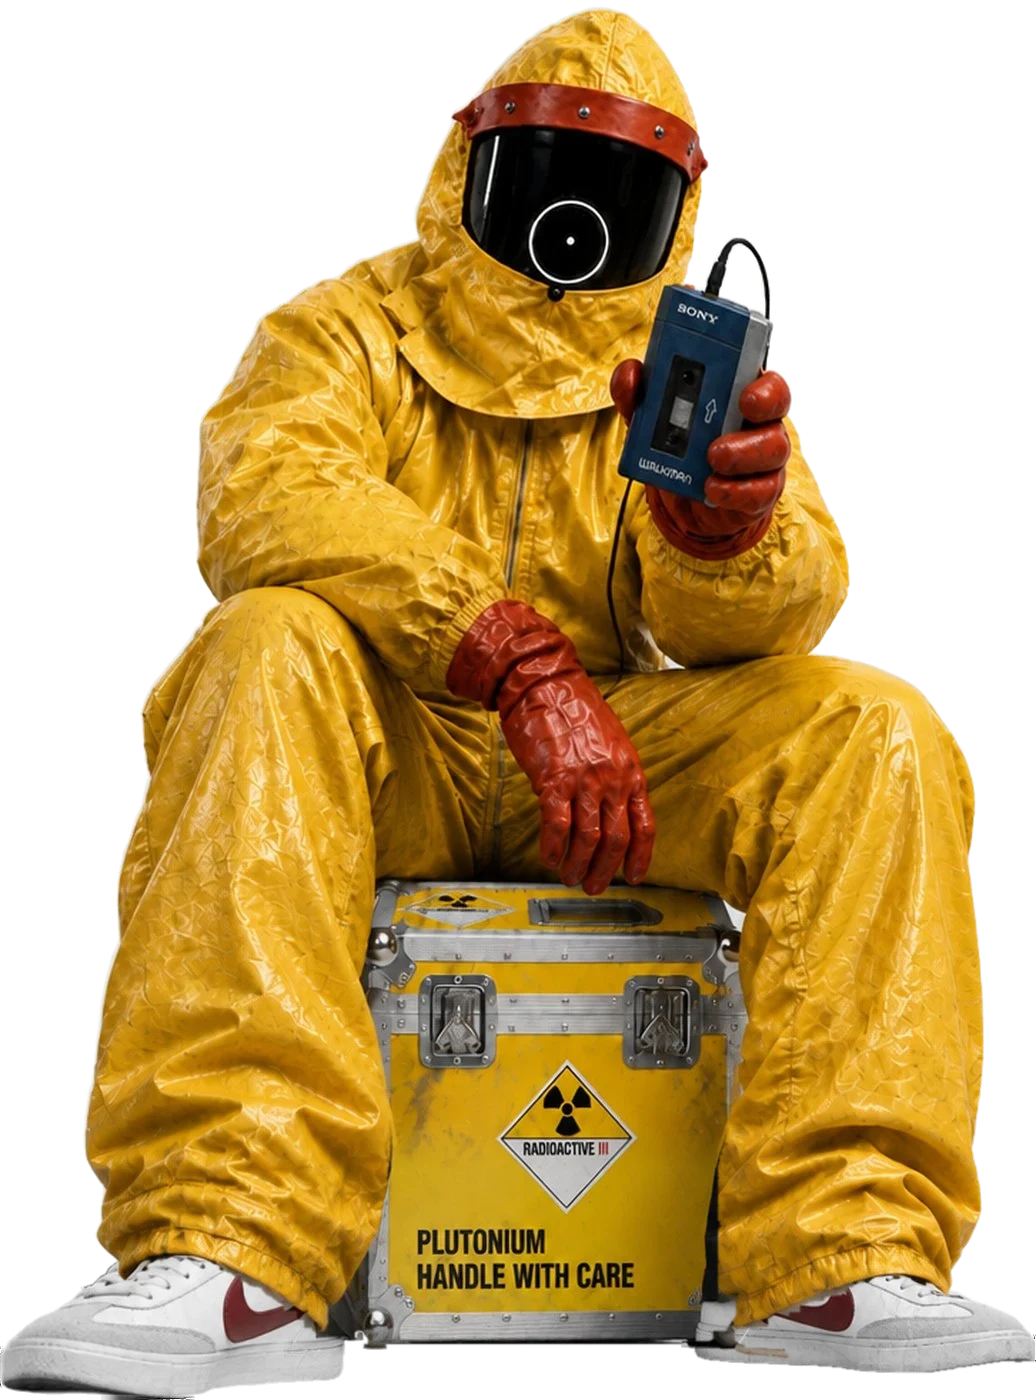
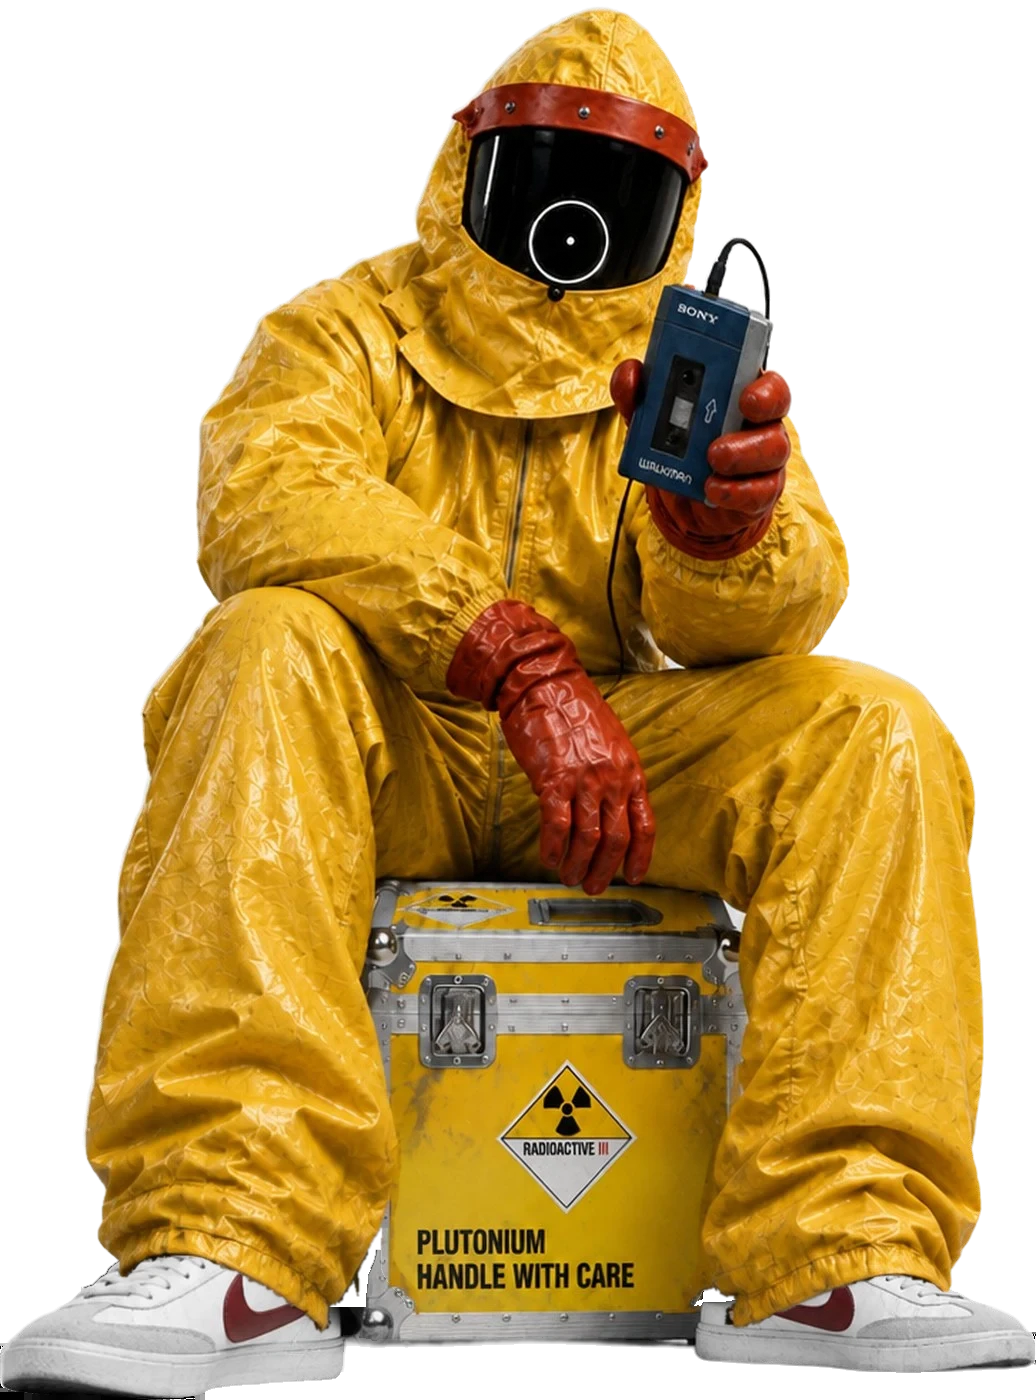
Suit-up: clean heels, solid shoes, and a swapped trail - no remnants
- Both cutouts: shoes made solid (the sole had see-through spots), a toe
  sliver under the left shoe removed.
- Avatar lower band: case outline measured row-by-row from the photo (it
  was too wide on the right and pulled in trouser/heel junk), suit-leg mask
  no longer swallows the avatar's own dark heel, trouser hem gaps are
  transparent, and below the cuffs it is Charlie's exact pixels.
- The motion trail behind the figure now crossfades to a suit-coloured
  trail on hover, so no grey smear of Charlie's outfit stays behind.

Claude-Session: https://claude.ai/code/session_01W5NmLrmCfpinZRZs12n3aL

diff --git a/index.html b/index.html
@@ -107,6 +107,11 @@
 
   .streak { position: absolute; z-index: 3; left: 24%; bottom: 24%; width: 30%; height: 7%; border-radius: 50%; background: radial-gradient(closest-side, rgba(255,130,70,.95), rgba(242,84,27,.55) 50%, rgba(242,84,27,0)); filter: blur(14px); opacity: .9; pointer-events: none; }
   .ghost { position: absolute; z-index: 3; bottom: 0; left: 50%; height: 72%; width: auto; max-width: none; transform: translateX(-74%); opacity: .45; pointer-events: none; }
+  /* the trail swaps with the figure, so no trace of the other look is left behind */
+  .ghost.suit-trail { opacity: 0; }
+  .hero.suited .ghost.me-trail { opacity: 0; }
+  .hero.suited .ghost.suit-trail { opacity: .45; }
+  .ghost.me-trail, .ghost.suit-trail { transition: opacity .6s; }
 
   /* Figure + Meta Ray-Ban capture LED */
   .figure { position: absolute; z-index: 4; left: 50%; bottom: 0; height: 88%; aspect-ratio: 1036 / 1400; transform: translateX(-50%); pointer-events: none; }
@@ -443,7 +448,8 @@
     <button class="fly b" type="button" data-deck="coming-home" style="--label:#3296FF" aria-label="COMING HOME (Odyssey) by Charlie Hinojosa. Put it on the deck"><span class="disc"></span><img src="assets/covers/coming-home-odyssey.jpg" alt=""><span class="cap" aria-hidden="true"><b>COMING HOME (Odyssey)</b>Charlie Hinojosa · LP</span></button>
     <button class="fly c" type="button" data-deck="t1" style="--label:#E8553A" aria-label="RAÍZ, new on Sightbox Records. Play it on the deck"><span class="disc"></span><img src="assets/covers/raiz.jpg" alt=""><span class="cap" aria-hidden="true"><b>RAÍZ</b>New on Sightbox Records · ▶ play</span></button>
     <div class="streak" aria-hidden="true"></div>
-    <img class="ghost" src="assets/charlie-trail-v2.webp" alt="" aria-hidden="true">
+    <img class="ghost me-trail" src="assets/charlie-trail-v2.webp" alt="" aria-hidden="true">
+    <img class="ghost suit-trail" src="assets/charlie-hazmat-trail.webp" alt="" aria-hidden="true">
     <div class="figure">
       <img class="me" src="assets/charlie-cutout.webp" alt="Black-and-white portrait of Charlie Hinojosa wearing Ray-Ban Meta glasses and white 1985 Nike sneakers with red swooshes, seated on the yellow Back to the Future plutonium case, shown in full color, his left hand on top showing a black wedding band. Hover to morph into his music avatar: a figure in a yellow radiation suit and the same white Nikes, holding up a Sony Walkman.">
       <img class="suit" src="assets/charlie-hazmat-cutout.webp" alt="" aria-hidden="true">
